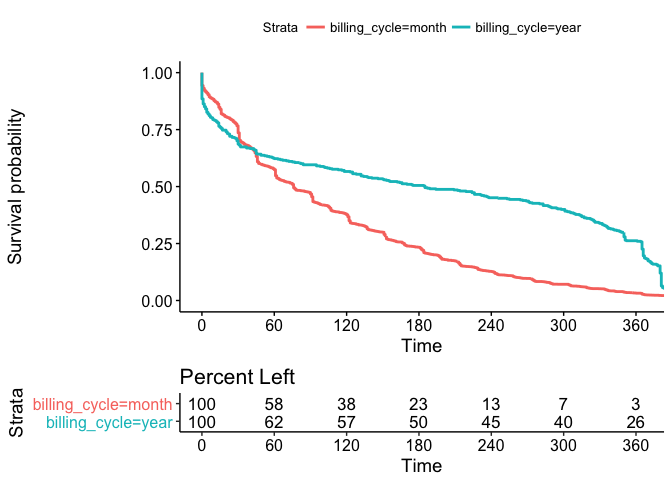
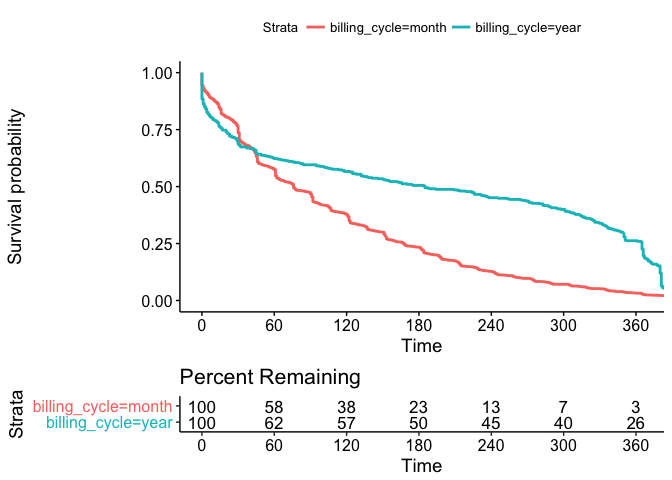
Updated plots

diff --git a/business_subscription_survival.md b/business_subscription_survival.md
@@ -79,7 +79,7 @@ Alright! Let's summarize and plot the model.
 library(survminer)
 
 # Visualize with survminer
-ggsurvplot(fit, data = subs, risk.table = "percentage", risk.table.title = "Percent Left",
+ggsurvplot(fit, data = subs, risk.table = "percentage", risk.table.title = "Percent Remaining",
            break.x.by = 60, xlim = c(0, 365))
 ```
 
@@ -93,7 +93,7 @@ Let's look at the plot a bit more closely, zooming in on the first 6 months.
 
 ``` r
 # Build survival plot of first 6 months
-ggsurvplot(fit, data = subs, risk.table = "percentage", risk.table.title = "Percent Left",
+ggsurvplot(fit, data = subs, risk.table = "percentage", risk.table.title = "Percent Remaining",
            break.x.by = 30, xlim = c(0, 180))
 ```
 
@@ -122,10 +122,12 @@ subs$survival <- Surv(subs$length, subs$churned)
 fit <- survfit(survival ~ gateway, data = subs)
 
 # Plot the survival curves
-ggsurvplot(fit, data = subs, risk.table = "percentage", risk.table.title = "Percent Left",
+ggsurvplot(fit, data = subs, risk.table = "percentage", risk.table.title = "Percent Remaining",
            break.x.by = 60, xlim = c(0, 365))
 ```
 
 ![](business_subscription_survival_files/figure-markdown_github/unnamed-chunk-7-1.png)
 
-Well we can see that when we're missing a `user_id` for a subscription, they don't tend to fair so well.
+Well we can see that when we're missing a `user_id` for a subscription, they don't tend to fair so well. This one might not be so useful.
+
+Let's focus on the first 60 days for Business subscriptions and start engineering feautures to train our models on. :)
